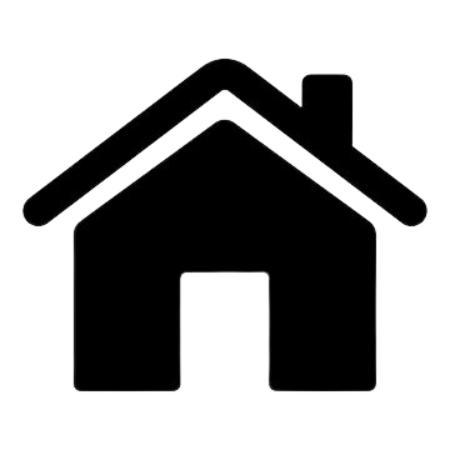
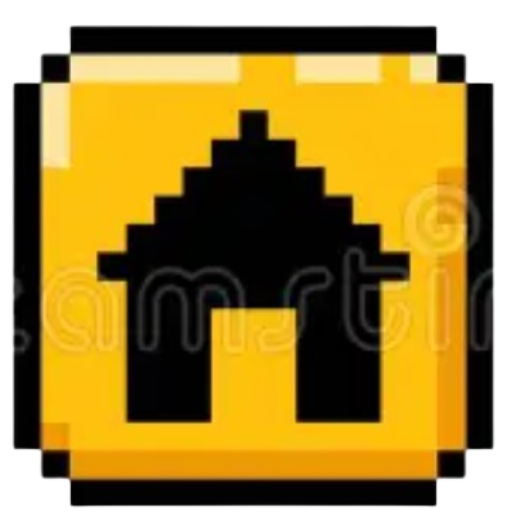
plah

diff --git a/core/src/main/java/io/github/basket_brawl/FirstScreen.java b/core/src/main/java/io/github/basket_brawl/FirstScreen.java
@@ -10,10 +10,16 @@ import com.badlogic.gdx.graphics.g2d.Batch;
 import com.badlogic.gdx.graphics.g2d.BitmapFont;
 import com.badlogic.gdx.graphics.g2d.GlyphLayout;
 import com.badlogic.gdx.graphics.g2d.SpriteBatch;
+import com.badlogic.gdx.graphics.g2d.TextureRegion;
 import com.badlogic.gdx.graphics.glutils.ShapeRenderer;
 import com.badlogic.gdx.math.MathUtils;
 import com.badlogic.gdx.math.Matrix4;
+import com.badlogic.gdx.scenes.scene2d.InputEvent;
 import com.badlogic.gdx.scenes.scene2d.Stage;
+import com.badlogic.gdx.scenes.scene2d.ui.ImageButton;
+import com.badlogic.gdx.scenes.scene2d.ui.Table;
+import com.badlogic.gdx.scenes.scene2d.utils.ClickListener;
+import com.badlogic.gdx.scenes.scene2d.utils.TextureRegionDrawable;
 
 /** First screen of the application. Displayed after the application is created. */
 public class FirstScreen implements Screen {
@@ -87,7 +93,7 @@ public class FirstScreen implements Screen {
     private float madeShotFallTime2 = 0f;
     private float madeShotFallX2;
     private float madeShotFallY2;
-    private static final float CATCH_HORIZONTAL_PADDING = 18f;
+    private static final float CATCH_HORIZONTAL_PADDING = 9f;
     private static final float CATCH_VERTICAL_PADDING = 24f;
     private int pendingPossession = 0; // 0 = none, 1 = to player1, 2 = to player2
     private static final float POSSESSION_SWAP_COOLDOWN = 0.5f;
@@ -96,8 +102,15 @@ public class FirstScreen implements Screen {
     private boolean cancelShotPending1 = false;
     private boolean cancelShotPending2 = false;
     private Stage stage;
+    private Main game;
+    private ImageButton homeButton;
+    private Texture homeTexture;
+    private Texture homeHoverTexture;
+    private static final float HOME_BUTTON_SIZE = 64f;
+    private static final float HOME_BUTTON_MARGIN = 10f;
 
-    public FirstScreen() {
+    public FirstScreen(Main game) {
+        this.game = game;
         // Create player 1 at left-center of screen
         player = new Player(100, 172);
         // Create player 2 at right-center of screen
@@ -129,6 +142,27 @@ public class FirstScreen implements Screen {
         hoopTexture = new Texture("Court/BasketBallHoop.png");
         hoopTextureLeft = new Texture("Court/BasketBallHoop.png");
         backgroundCourtTexture = new Texture("Court/BackgroundCourt.png");
+        
+        // Create home button
+        homeTexture = new Texture("homebutton.png");
+        homeHoverTexture = new Texture("homebutton.png");
+        ImageButton.ImageButtonStyle homeStyle = new ImageButton.ImageButtonStyle();
+        homeStyle.imageUp = new TextureRegionDrawable(new TextureRegion(homeTexture));
+        homeStyle.imageOver = new TextureRegionDrawable(new TextureRegion(homeHoverTexture));
+        homeButton = new ImageButton(homeStyle);
+        homeButton.setSize(HOME_BUTTON_SIZE, HOME_BUTTON_SIZE);
+        Table homeTable = new Table();
+        homeTable.setFillParent(true);
+        homeTable.top().left().pad(HOME_BUTTON_MARGIN);
+        homeTable.add(homeButton).size(HOME_BUTTON_SIZE, HOME_BUTTON_SIZE);
+        stage.addActor(homeTable);
+        
+        homeButton.addListener(new ClickListener() {
+            @Override
+            public void clicked(InputEvent event, float x, float y) {
+                game.setScreen(new StartScreen(game));
+            }
+        });
     }
 
     @Override
@@ -225,6 +259,10 @@ public class FirstScreen implements Screen {
         player.render(batch, false);
         player2.render(batch, true);
         batch.end();
+        
+        // Update and draw the UI stage (for home button)
+        stage.act(delta);
+        stage.draw();
     }
 
     @Override
@@ -242,6 +280,10 @@ public class FirstScreen implements Screen {
         // Update camera to match viewport
         camera.setToOrtho(false, width, height);
         camera.update();
+
+        player.setHorizontalBounds(0f, width - player.getWidth());
+        player2.setHorizontalBounds(0f, width - player2.getWidth());
+        stage.getViewport().update(width, height, true);
     }
 
     @Override

diff --git a/core/src/main/java/io/github/basket_brawl/Player.java b/core/src/main/java/io/github/basket_brawl/Player.java
@@ -44,6 +44,8 @@ public class Player {
     private static final float BLOCK_JUMP_DURATION = 1.05f;
     private static final float BLOCK_JUMP_HEIGHT = 400f;
     private static final float BLOCK_JUMP_DISTANCE = 680f;
+    private float minX = Float.NEGATIVE_INFINITY;
+    private float maxX = Float.POSITIVE_INFINITY;
     private float shootingAnimationTime = 0;
     private float shootingHoldTime = 0;
     private static final float SHOOT_HOLD_DURATION = 0.15f; // Briefly freeze on the last shot frame before returning to dribble
@@ -127,6 +129,8 @@ public class Player {
                 blockJumpTargetX = blockJumpQueuedTargetX;
             }
 
+            clampToHorizontalBounds();
+
             bounds.set(x, y, width, height);
             return;
         }
@@ -137,6 +141,8 @@ public class Player {
             float easedProgress = progress * progress * (3f - 2f * progress);
             x = blockJumpStartX + (blockJumpTargetX - blockJumpStartX) * easedProgress;
             y = blockJumpStartY + (float) Math.sin(progress * Math.PI) * BLOCK_JUMP_HEIGHT;
+
+            clampToHorizontalBounds();
 
             if (progress >= 1f) {
                 blockJumpActive = false;
@@ -159,6 +165,8 @@ public class Player {
         // Apply movement
         x += moveX;
         y = baseY;
+
+        clampToHorizontalBounds();
         
         isMoving = left || right;
 
@@ -303,7 +311,19 @@ public class Player {
         this.x = x;
         this.y = y;
         this.baseY = y;
+        clampToHorizontalBounds();
         bounds.set(x, y, width, height);
+    }
+
+    public void setHorizontalBounds(float minX, float maxX) {
+        this.minX = minX;
+        this.maxX = maxX;
+        clampToHorizontalBounds();
+        bounds.set(x, y, width, height);
+    }
+
+    private void clampToHorizontalBounds() {
+        x = Math.max(minX, Math.min(x, maxX));
     }
 
     public void startBlockJumpToward(float targetX) {
@@ -311,9 +331,10 @@ public class Player {
             return;
         }
 
-        float deltaX = targetX - x;
+        float clampedTargetX = Math.max(minX, Math.min(targetX, maxX));
+        float deltaX = clampedTargetX - x;
         float jumpDirection = deltaX < 0f ? -1f : 1f;
-        blockJumpTargetX = x + jumpDirection * BLOCK_JUMP_DISTANCE;
+        blockJumpTargetX = Math.max(minX, Math.min(x + jumpDirection * BLOCK_JUMP_DISTANCE, maxX));
         blockJumpQueuedTargetX = blockJumpTargetX;
         blockJumpStartX = x;
         blockJumpStartY = baseY;

diff --git a/core/src/main/java/io/github/basket_brawl/SelectionScreen.java b/core/src/main/java/io/github/basket_brawl/SelectionScreen.java
@@ -125,10 +125,10 @@ public class SelectionScreen implements Screen {
         Lebronbool = false;
 
         //----
-        homeTexture = new Texture(Gdx.files.internal("homeButton.png"));
+        homeTexture = new Texture(Gdx.files.internal("homebutton.png"));
         homeDrawable = new TextureRegionDrawable(new TextureRegion(homeTexture));
         home = new ImageButton(homeDrawable); 
-        home.setSize(64, 64);
+        home.setSize(80, 80);
         stage.addActor(home);
         home.addListener(new ClickListener() {
         @Override
@@ -555,8 +555,8 @@ public class SelectionScreen implements Screen {
         }   
         
         //----
+        home.setPosition(10, viewport.getWorldHeight() - 90f);
         home.draw(spriteBatch, 1);
-        home.setPosition(0, 440);
 
         Player1.draw(spriteBatch, 1);
         Player1.setPosition(300, -50);

diff --git a/core/src/main/java/io/github/basket_brawl/Main.java b/core/src/main/java/io/github/basket_brawl/Main.java
@@ -146,6 +146,6 @@ public class Main extends Game {
     }
 
     public void play(){
-        setScreen(new FirstScreen());
+        setScreen(new FirstScreen(this));
     }
 }